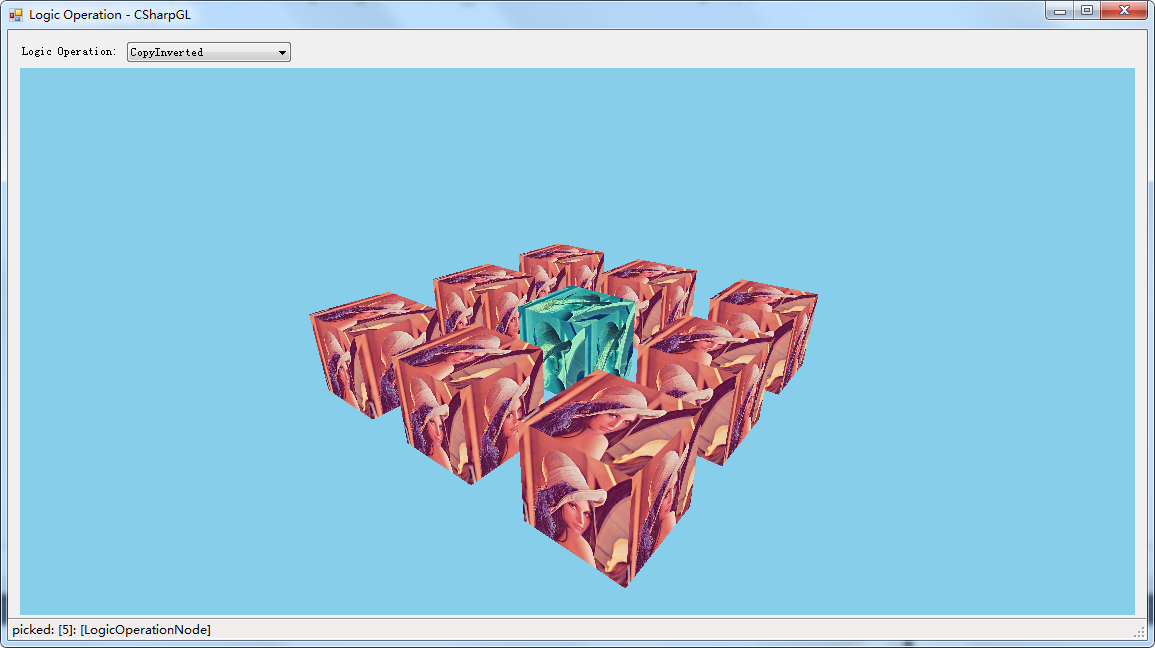
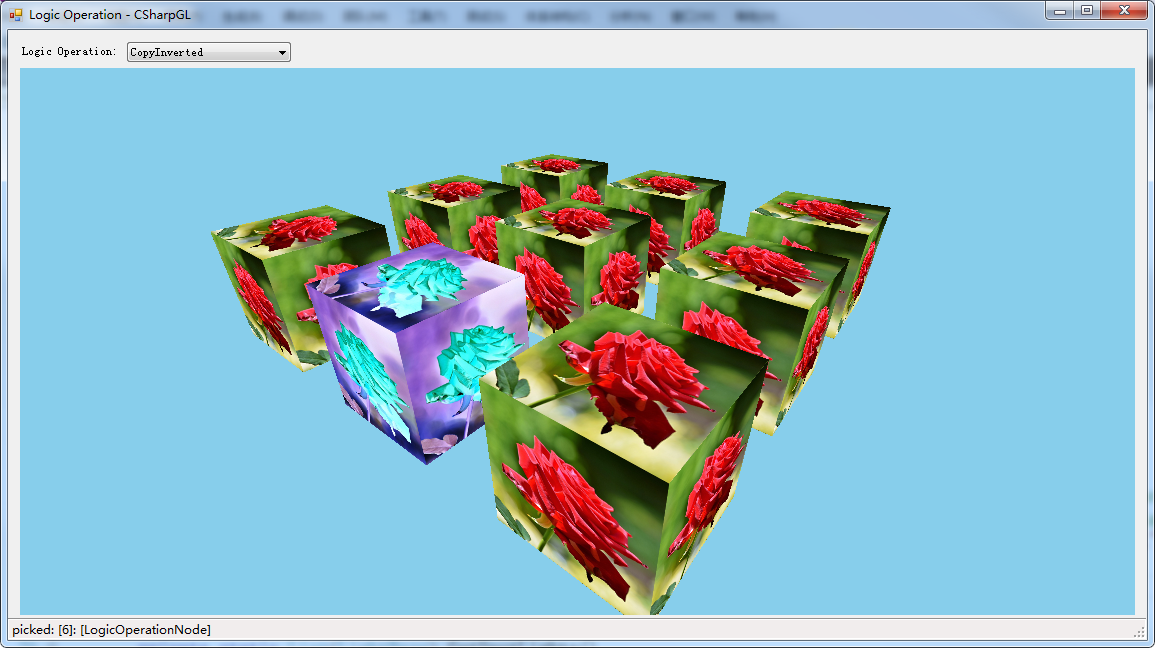
flower instead of lenna.

diff --git a/Demos/StencilTest/Form1HowStencilWorks.cs b/Demos/StencilTest/Form1HowStencilWorks.cs
@@ -91,7 +91,7 @@ namespace StencilTest
             // demo 3:
             var clearStencilNode = ClearStencilNode.Create(); // this helps clear stencil buffer because `glClear(GL_STENCIL_BUFFER_BIT);` doesn't work on my laptop.
             string folder = System.Windows.Forms.Application.StartupPath;
-            var bitmap = new Bitmap(System.IO.Path.Combine(folder, @"Lenna.png"));
+            var bitmap = new Bitmap(System.IO.Path.Combine(folder, @"flower.png"));
             bitmap.RotateFlip(RotateFlipType.Rotate180FlipX);
             var texture = new Texture(new TexImageBitmap(bitmap));
             texture.BuiltInSampler.Add(new TexParameteri(TexParameter.PropertyName.TextureWrapS, (int)GL.GL_REPEAT));

diff --git a/Demos/LogicOperation/FormMain.cs b/Demos/LogicOperation/FormMain.cs
@@ -62,7 +62,7 @@ namespace LogicOperation
         private SceneNodeBase GetRootElement()
         {
             string folder = System.Windows.Forms.Application.StartupPath;
-            var bitmap = new Bitmap(System.IO.Path.Combine(folder, @"Lenna.png"));
+            var bitmap = new Bitmap(System.IO.Path.Combine(folder, @"flower.png"));
             bitmap.RotateFlip(RotateFlipType.Rotate180FlipX);
             var texture = new Texture(new TexImageBitmap(bitmap));
             texture.BuiltInSampler.Add(new TexParameteri(TexParameter.PropertyName.TextureWrapS, (int)GL.GL_REPEAT));
